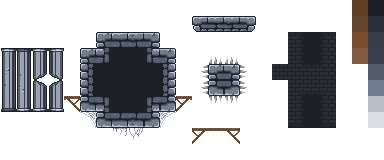
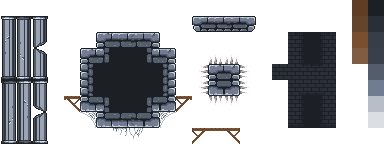
Comit

Changed region(s): [[0.0, 0.0938, 0.1875, 0.9062]]

diff --git a/Scripts/Player/Player.cs b/Scripts/Player/Player.cs
@@ -47,9 +47,22 @@ public partial class Player : AllPlayer
 		{
 			if(Center!=null && Center=="Spike")
 			{
-				StateMachine.CurrentState = StateMachine.GetState("Death");
-				StateMachine.CurrentState.PlayBack.Travel("Death");
-				(StateMachine.CurrentState.Player as AllPlayer).CurAni = "Death";
+				if(StateMachine.CurrentState is Air || StateMachine.CurrentState is Stand)
+				{
+					StateMachine.CurrentState = StateMachine.GetState("Death");
+					StateMachine.CurrentState.PlayBack.Travel("Death");
+					(StateMachine.CurrentState.Player as AllPlayer).CurAni = "Death";
+					Speed = 200.0f;
+					JumpVelocity = -400.0f;
+				}
+				else if (StateMachine.CurrentState is not Death)
+				{
+					StateMachine.CurrentState = StateMachine.GetState("Stand");
+					StateMachine.CurrentState.PlayBack.Travel("Move");
+					(StateMachine.CurrentState.Player as AllPlayer).CurAni = "Move";
+					Speed = 200.0f;
+					JumpVelocity = -400.0f;
+				}
 			}
 			
 			Vector2 velocity = Velocity;

diff --git a/Scripts/Object/Gate.cs b/Scripts/Object/Gate.cs
@@ -1,0 +1,46 @@
+using Godot;
+using System;
+
+public partial class Gate : Node2D
+{
+	private bool Open = false;
+	private int In = 0;
+	private AnimationPlayer Ani;
+	// Called when the node enters the scene tree for the first time.
+	public override void _Ready()
+	{
+		Ani = GetNode<AnimationPlayer>("AnimationPlayer");
+	}
+
+	// Called every frame. 'delta' is the elapsed time since the previous frame.
+	public override void _Process(double delta)
+	{
+		if(Open && In==0)
+		{
+			Ani.Play("Close");
+			Open = false;
+		}
+		if(!Open && In!=0)
+		{
+			Ani.Play("Open");
+			Open = true;
+		}
+	}
+	private void _on_area_2d_body_entered(Node2D body)
+	{
+		if(body is AllPlayer)
+		{
+			In++;
+		}
+	}
+
+
+	private void _on_area_2d_body_exited(Node2D body)
+	{
+		if(body is AllPlayer)
+		{
+			In--;
+		}
+	}
+}
+

diff --git a/Scripts/StateMachine/Death.cs b/Scripts/StateMachine/Death.cs
@@ -19,6 +19,8 @@ public partial class Death : State
 	}
 	private void _on_animation_tree_animation_finished(StringName anim_name)
 	{
+		(Player as Player).Speed = 200.0f;
+		(Player as Player).JumpVelocity = -400.0f;
 		if(anim_name == "Death")
 		{
 			NextState = StandState;
@@ -38,6 +40,8 @@ public partial class Death : State
 			}
 			index++;
 		}
+		(Player as Player).Speed = 200.0f;
+		(Player as Player).JumpVelocity = -400.0f;
 	}
 	
 }
